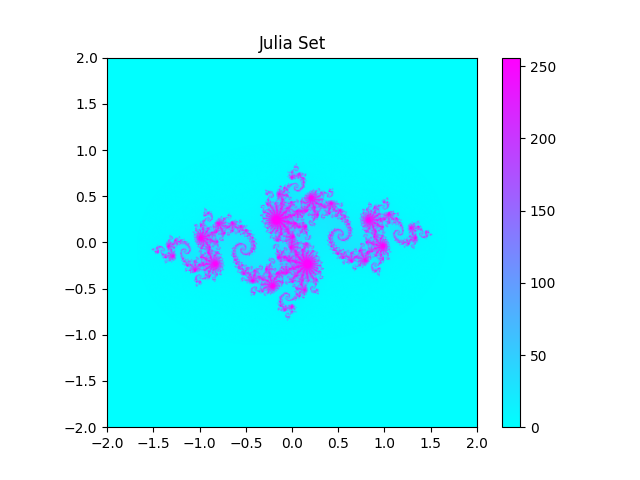
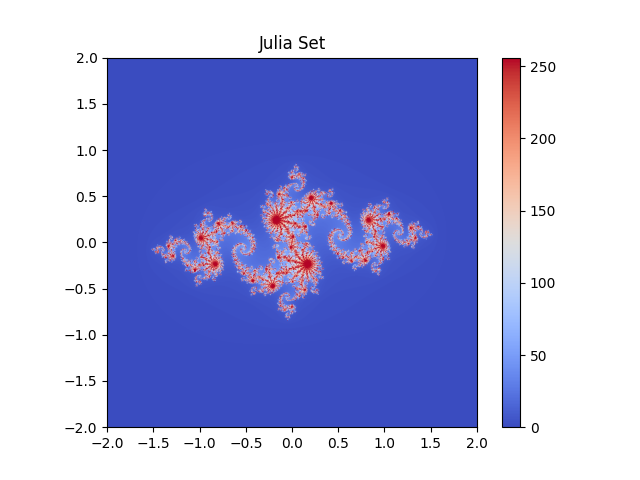
Julia.py was edited

diff --git a/Fractal_Shapes_Generator/Julia.py b/Fractal_Shapes_Generator/Julia.py
@@ -25,7 +25,7 @@ def generate_julia_set(c, xmin, xmax, ymin, ymax, width, height, max_iter=256):
 # Generate and save the Julia set image
 c = complex(-0.8, 0.156)
 julia_img = generate_julia_set(c, -2.0, 2.0, -2.0, 2.0, 800, 800)
-plt.imshow(julia_img, cmap='cool', extent=(-2, 2, -2, 2))
+plt.imshow(julia_img, cmap='coolwarm', extent=(-2, 2, -2, 2))
 plt.colorbar()
 plt.title('Julia Set')
 plt.savefig(os.path.join(output_dir, 'Julia.png'))
